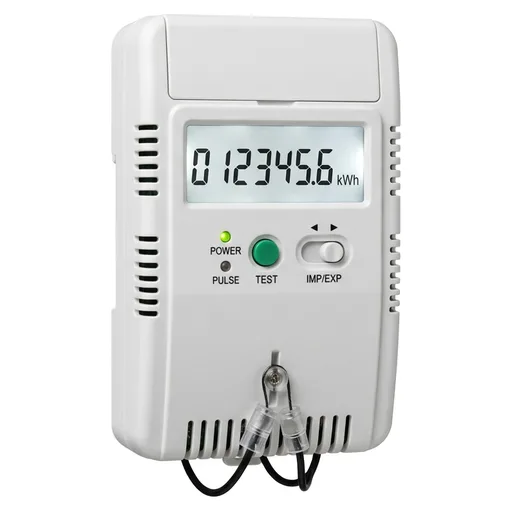
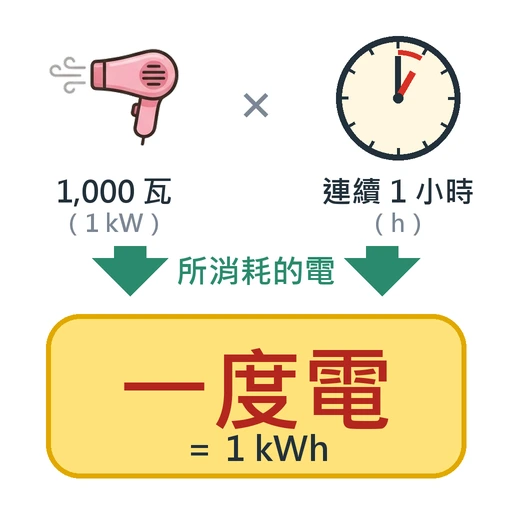
雙語字卡「度」換成示意圖：1,000 瓦（1 kW）× 連續 1 小時（h）＝一度電（重點標示）
舊圖是電表照片，學生沒感覺。新圖用遊戲裡的卡通吹風機＋時鐘＋黃底紅字「一度電」，
由 tools/gen_kwh_card.py 自己畫（不呼叫 Vertex、不花錢）；gen_icons.py 的 meter 項目退場。
（另用 Vertex cuaji 試畫過一張電表照片，未採用，只留在 _icon_trial/，不進版控）

diff --git a/themes/save-power/theme.js b/themes/save-power/theme.js
@@ -249,7 +249,7 @@ window.THEME = {
   ] },
   // 我會說：抽一張，對家人說出這一句（icon＝art/ 的圖）
   // 中英雙語關鍵字卡（cards/ 字卡頁、教案附錄十三都讀這一份）。img 是從遊戲根目錄算起的路徑；
-  // ebill／meter／co2／certBadge／netZero 由 tools/gen_icons.py 產生（2026-11-13），其餘重用遊戲裡現成的圖
+  // ebill／co2／certBadge／netZero 由 tools/gen_icons.py 產生（2026-11-13）；meter（度）是 tools/gen_kwh_card.py 自己畫的示意圖（2026-11-14），其餘重用遊戲裡現成的圖
   // 雙語字卡＝教案「雙語融入」表的 7 張（2026-11-13 定案：兩邊一一對應，多的刪掉）
   words: [
     { zh: "電費單", en: "Electricity Bill", say: "Electricity bill", when: "第一節 引起動機", img: "hunt/bills/B.webp", note: "教學範例帳單" },

diff --git a/tools/gen_kwh_card.py b/tools/gen_kwh_card.py
@@ -1,0 +1,74 @@
+# -*- coding: utf-8 -*-
+"""雙語字卡「度（用電度數）」的示意圖（自己畫，不呼叫 Vertex、不花錢）。
+2026-11-14 使用者：光是電表照片，學生沒感覺 → 照定義畫：1,000 瓦（1 kW）的電器連續使用 1 小時（h）所消耗的電，重點標示「一度電」。
+用法：python tools/gen_kwh_card.py [輸出路徑]    預設 themes/save-power/images/meter.webp（512×512）
+吹風機圖＝themes/save-power/art/hairdryer.webp（遊戲裡同一張卡通圖，約 1,000 瓦的常見電器）。"""
+import sys, math, pathlib
+from PIL import Image, ImageDraw, ImageFont
+
+ROOT = pathlib.Path(__file__).resolve().parent.parent
+OUT = pathlib.Path(sys.argv[1]) if len(sys.argv) > 1 else ROOT / 'themes/save-power/images/meter.webp'
+S = 2                                    # 2 倍繪製再縮小，邊緣才平滑
+W = H = 512 * S
+
+
+def font(size, bold=True):
+    for f in ('msjhbd.ttc' if bold else 'msjh.ttc', 'msjh.ttc', 'NotoSansTC-VF.ttf'):
+        try:
+            return ImageFont.truetype(f'C:/Windows/Fonts/{f}', size * S)
+        except OSError:
+            continue
+    raise SystemExit('找不到中文字型')
+
+
+def mono(size):
+    for f in ('consolab.ttf', 'courbd.ttf', 'arialbd.ttf'):
+        try:
+            return ImageFont.truetype(f'C:/Windows/Fonts/{f}', size * S)
+        except OSError:
+            continue
+    return font(size)
+
+
+im = Image.new('RGB', (W, H), '#ffffff')
+d = ImageDraw.Draw(im)
+INK, GREEN, RED, GRAY = '#22303a', '#2b8a6e', '#d93025', '#7b8794'
+
+
+def text_c(cx, cy, s, f, fill=INK):
+    d.text((cx * S, cy * S), s, font=f, fill=fill, anchor='mm')
+
+
+# 上排：1,000 瓦的電器 × 連續 1 小時
+hd = Image.open(ROOT / 'themes/save-power/art/hairdryer.webp').convert('RGBA').resize((140 * S, 140 * S), Image.LANCZOS)
+im.paste(hd, (44 * S, 28 * S), hd)
+text_c(114, 190, '1,000 瓦', font(30), INK)
+text_c(114, 222, '（1 kW）', font(24), GRAY)
+text_c(256, 100, '×', font(52), GRAY)
+cx, cy, r = 398, 98, 62
+d.ellipse(((cx - r) * S, (cy - r) * S, (cx + r) * S, (cy + r) * S), fill='#fff7e0', outline=INK, width=6 * S)
+for k in range(12):
+    a = math.radians(k * 30 - 90)
+    d.line(((cx + (r - 12) * math.cos(a)) * S, (cy + (r - 12) * math.sin(a)) * S, (cx + (r - 4) * math.cos(a)) * S, (cy + (r - 4) * math.sin(a)) * S), fill=INK, width=3 * S)
+d.line((cx * S, cy * S, cx * S, (cy - 42) * S), fill=INK, width=6 * S)                          # 分針指 12
+a = math.radians(30 - 90)
+d.line((cx * S, cy * S, (cx + 30 * math.cos(a)) * S, (cy + 30 * math.sin(a)) * S), fill=RED, width=7 * S)  # 時針指 1（從 12 走到 1＝1 小時）
+d.arc(((cx - r + 14) * S, (cy - r + 14) * S, (cx + r - 14) * S, (cy + r - 14) * S), start=-90, end=-60, fill=RED, width=5 * S)
+d.ellipse(((cx - 5) * S, (cy - 5) * S, (cx + 5) * S, (cy + 5) * S), fill=INK)
+text_c(cx, 190, '連續 1 小時', font(30), INK)
+text_c(cx, 222, '（h）', font(24), GRAY)
+
+# 往下箭頭＋「所消耗的電」
+d.polygon([(130 * S, 296 * S), (92 * S, 258 * S), (114 * S, 258 * S), (114 * S, 246 * S), (146 * S, 246 * S), (146 * S, 258 * S), (168 * S, 258 * S)], fill=GREEN)
+d.polygon([(382 * S, 296 * S), (344 * S, 258 * S), (366 * S, 258 * S), (366 * S, 246 * S), (398 * S, 246 * S), (398 * S, 258 * S), (420 * S, 258 * S)], fill=GREEN)
+text_c(256, 270, '所消耗的電', font(32), GREEN)
+
+# 重點：一度電（黃色螢光筆底）
+d.rounded_rectangle((46 * S, 314 * S, 466 * S, 478 * S), radius=34 * S, fill='#ffe27a', outline='#e0a800', width=5 * S)
+text_c(256, 386, '一度電', font(92), '#b3261e')
+text_c(256, 447, '＝ 1 kWh', font(34), INK)
+
+im = im.resize((512, 512), Image.LANCZOS)
+OUT.parent.mkdir(parents=True, exist_ok=True)
+im.save(OUT, quality=92) if OUT.suffix.lower() == '.webp' else im.save(OUT)
+print('寫入', OUT)

diff --git a/tools/gen_icons.py b/tools/gen_icons.py
@@ -50,7 +50,7 @@ ITEMS = [
     ('filter', '一片從冷氣拆下來的乾淨濾網（白色細網），旁邊有水滴，像剛洗好。'),
     # 雙語字卡（cards/）
     ('ebill', '一支智慧型手機正面，螢幕亮著顯示一張帳單畫面：上方一個綠色區塊、下面幾條灰色橫線代表文字（不要真的文字、不要數字、不要標誌），旁邊放著一張被打叉不用的紙本信封。'),
-    ('meter', '台灣住家牆上常見的白色電子式電表（瓦時計），正面，液晶螢幕亮著顯示幾位數字，不要品牌字樣。'),
+    # meter（度＝用電度數）2026-11-14 改成自己畫的示意圖，不再用 Vertex：python tools/gen_kwh_card.py（別用 build_photos 覆蓋 meter.webp）
     ('co2', '遠方一座火力發電廠，高高的煙囪冒出大量灰色的煙飄向天空，藍天下，畫面簡單。'),
     # 2026-11-13 使用者：舊徽章是寫實照片＋白底、緞帶細長，放在身分證上很怪 → 改成跟卡通頭像同一種畫風、圓形、可去背
     ('certBadge', ('sheet_raw_1', '只參考這張圖的畫風（粗深色外框線、飽和平塗色塊、可愛的兒童教材卡通插畫），不要修改或重畫這張圖。'
